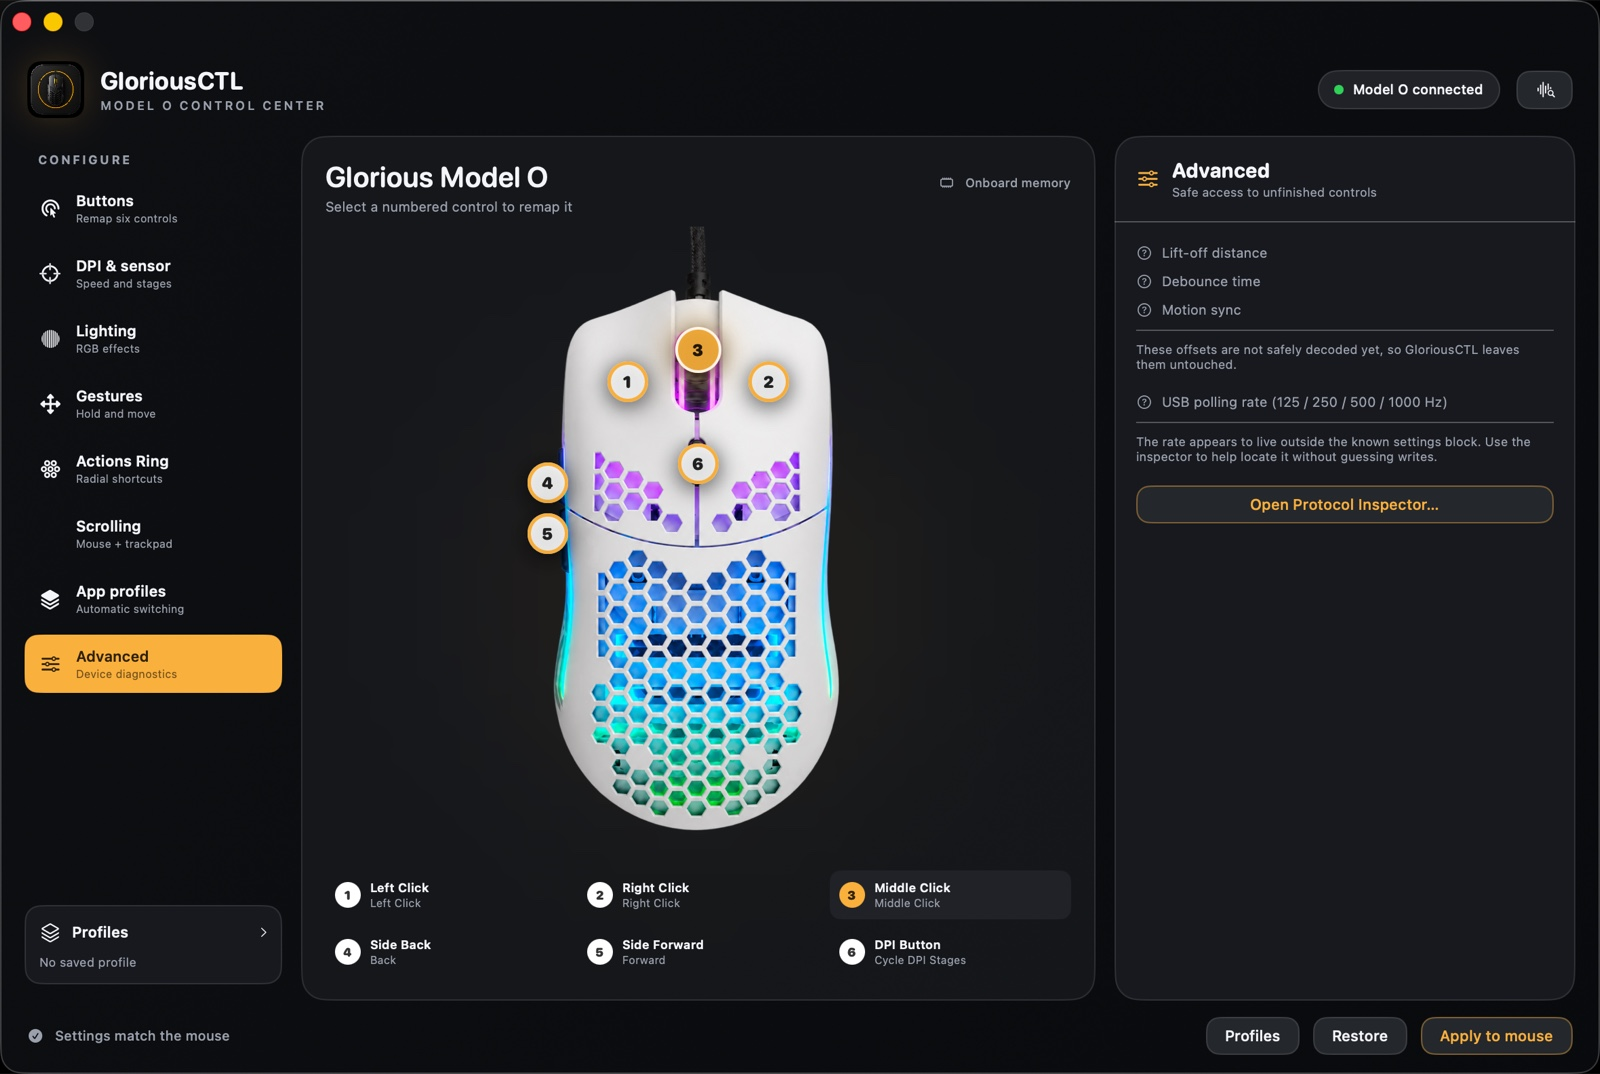
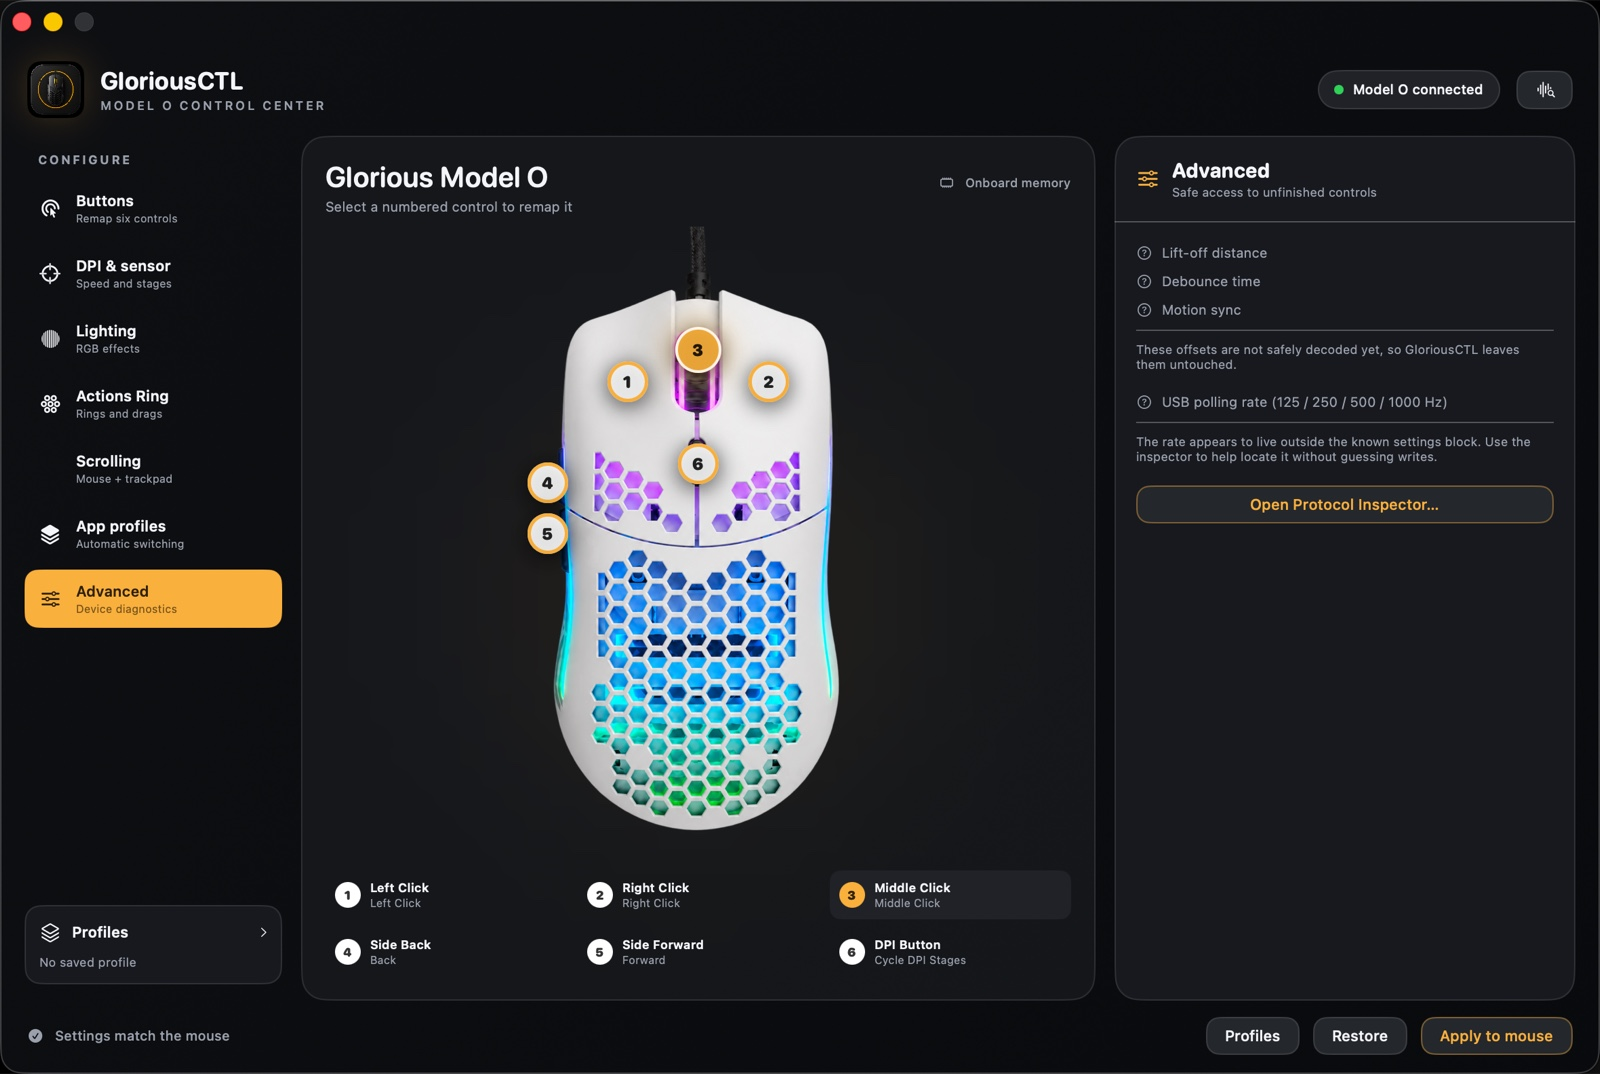
Refresh the screenshots
Recaptured against the current UI: the ring panel now shows the live preview
on its compass slots with the Add item button, the scrolling panel shows the
speed slider, and the sidebar no longer has a Gestures tab.

The hero shot moves to feature-buttons.jpg rather than replacing
GloriousCTL-1.4-preview.png, because the v1.0.0 release notes reference that
file by absolute URL and deleting it would break an image on a published
release page.

Changed region(s): [[0.0, 0.338, 0.1875, 0.6453]]

diff --git a/README.md b/README.md
@@ -19,7 +19,7 @@ restarts, and they follow the mouse if you plug it into a different computer.
 
 ![The GloriousCTL main window: a sidebar of configuration sections on the left, an
 interactive picture of the Model O with numbered buttons in the middle, and an
-inspector panel for the selected button on the right](Assets/GloriousCTL-1.4-preview.png)
+inspector panel for the selected button on the right](Assets/feature-buttons.jpg)
 
 ---
 
@@ -406,8 +406,9 @@ radially — Mission Control, Application Windows, Show Desktop, Launchpad,
 Spotlight, Screenshot Selection, Lock Screen and Play/Pause — with the hovered
 item highlighted](Assets/ActionRing-preview.png)
 
-![The Actions Ring editor: a list of configurable slots with action dropdowns,
-optional labels, and a hold-delay slider](Assets/feature-actionring.jpg)
+![The Actions Ring panel: a live ring preview with the items on their compass
+slots, an Add item button, and the list of slots below with action menus and
+optional labels](Assets/feature-actionring.jpg)
 
 **A live preview sits next to the list**, showing the ring exactly as it will appear.
 Click a bubble to jump to its row, or drag one onto another slot to change the order.
@@ -457,8 +458,8 @@ A **scroll speed** slider sits alongside it, from *macOS default* up to *Fastest
 wheel sends discrete steps and macOS moves a fixed few lines per step, which feels slow
 next to a trackpad. Like the direction fix, it only touches the wheel.
 
-![The Scrolling panel: a Fix mouse wheel direction toggle, with a note that trackpad
-gestures pass through unchanged](Assets/feature-scrolling.jpg)
+![The Scrolling panel: a Fix mouse wheel direction toggle and a Scroll speed slider,
+with a note that trackpad gestures pass through unchanged](Assets/feature-scrolling.jpg)
 
 ### Honest about what isn't decoded
 
